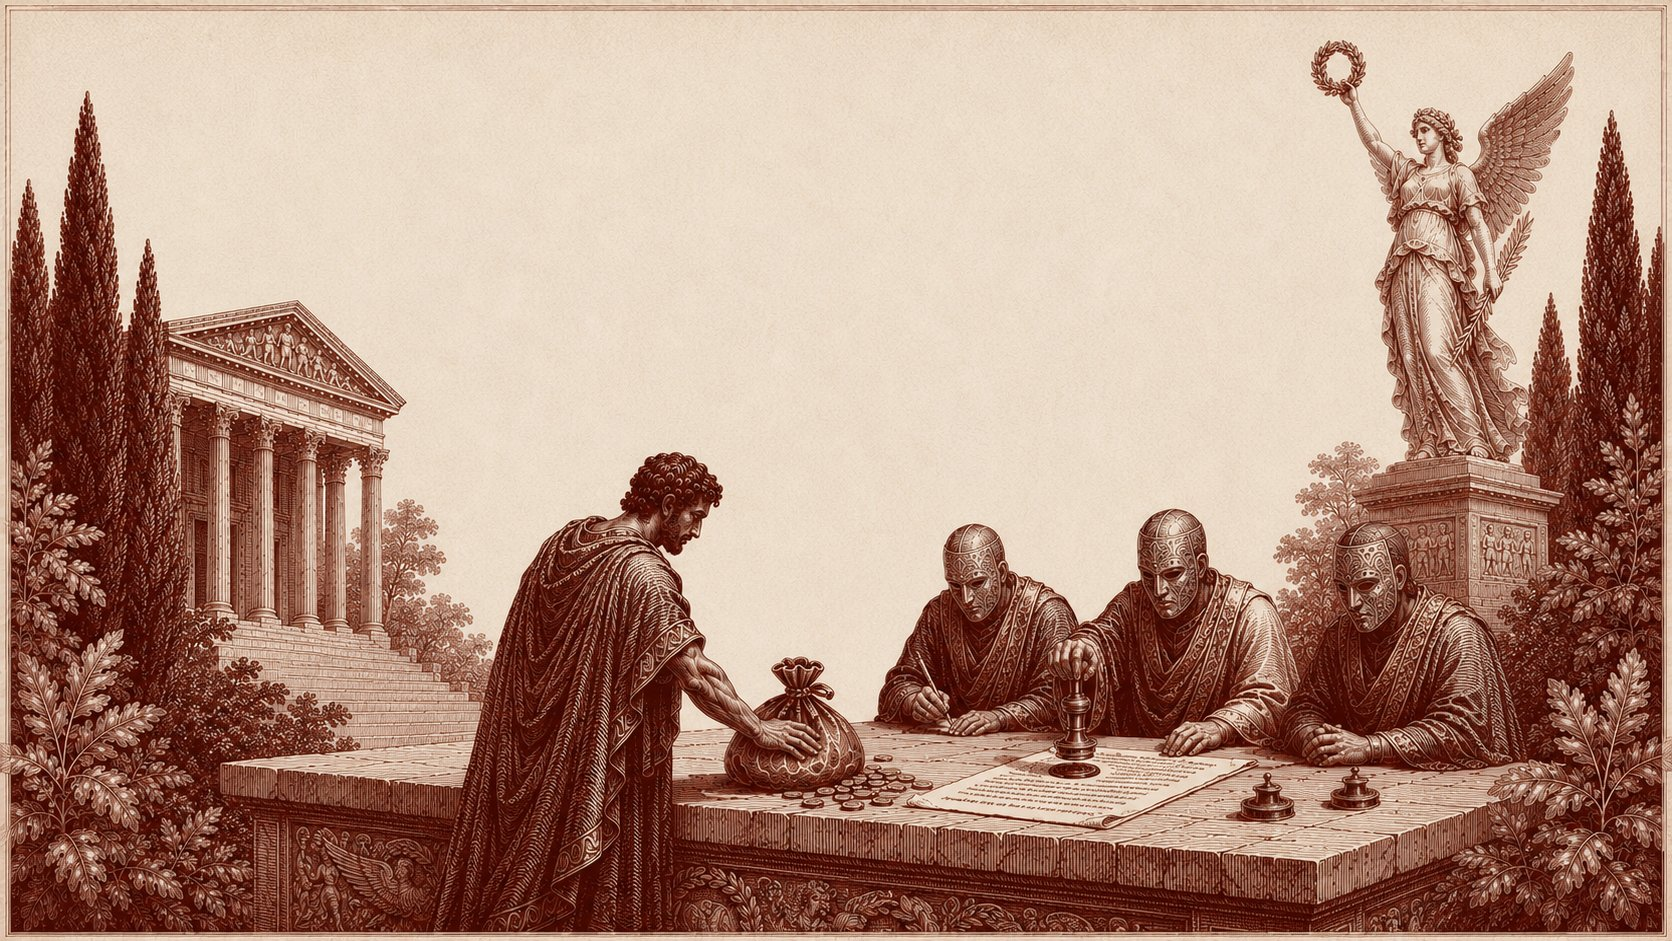
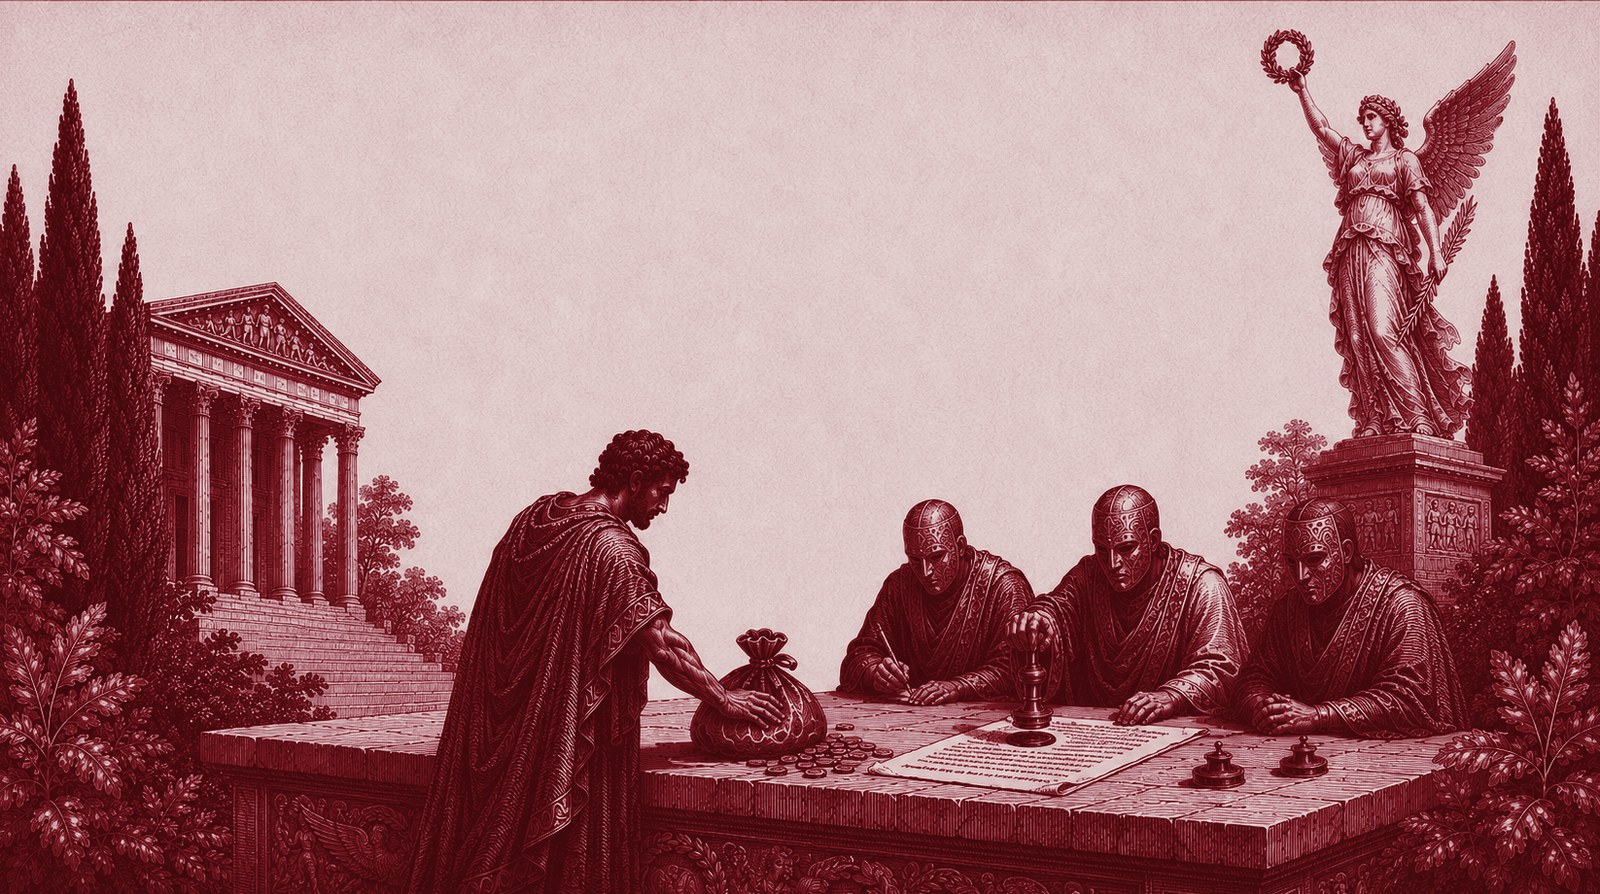
feat(landing): rebuilt plates — mobile fits one screen, desktop regraded
Desktop  collateral-plate.jpg         1600x894, 433KB  (was 1672x941, 452KB)
Mobile   collateral-plate-mobile.jpg   900x1500, 142KB  (was 864x1821, 453KB)

The mobile crop is now built from the DESKTOP artwork rather than a portrait
render. That is the actual fix: a portrait render put the scene between 28% and
100% of its height, so the scene alone was ~1365px tall on a 390 phone and no
crop could shorten it without cutting figures. The desktop scene is wide and
short, so it drops into the bottom third of a shorter canvas with the top left
clear. Sky extended upward from the plate's own tone with a feathered join.

Mobile hero on a 390 phone: 822px -> 650px. Inside one screen instead of
overflowing it. Mobile plate also drops 453KB -> 142KB, a 69% cut on the LCP
element for phones.

Applied with it: aspect-ratio 864/1821 -> 900/1500, lockup padding 100px ->
96px, mobile h1 clamp(32px,9.4vw,52px) -> clamp(38px,12vw,48px). The
max-width:420px block was already removed in 6df1b7b0.

Verified 390x844: hero 390x650, full bleed, fits one screen, lockup absolute at
96px clearing the header, headline 46.8px in three lines, 0% ink under eyebrow,
headline and both CTAs. Clear channel measured to 68% depth.
Verified 1920x1080: fills one frame, 0px top crop, 14px a side, 0% ink under
eyebrow, headline, both CTAs; wordmark 0.1%.

STILL OPEN, and now larger: the plate's paper is rgb(220,196,196), a dusty rose,
[…]

diff --git a/FRONTEND/src/components/CollateralHero.js b/FRONTEND/src/components/CollateralHero.js
@@ -36,14 +36,16 @@
  * ─────────────────────────────────────────────────────────────────────────────
  */
 
-// Desktop plate: 1672x941 JPEG, 452KB. Mobile has its own portrait crop,
-// 864x1821 JPEG at 453KB, wired in the max-width:820px block.
+// Desktop plate: 1600x894 JPEG, 433KB. Mobile: 900x1500 JPEG, 142KB.
 //
-// Both were supplied as ~3.2MB PNGs and re-encoded to JPEG q86 via Windows
-// System.Drawing — an 86% reduction. There is still no sharp or ImageMagick
-// here; System.Drawing is the encoder that does exist on this machine.
-const PLATE_W = 1672;
-const PLATE_H = 941;
+// The mobile crop is built from the DESKTOP artwork, not from a portrait
+// render. A portrait render put the scene between 28% and 100% of its height,
+// so the scene alone was ~1365px tall on a 390 phone and no crop could shorten
+// it without cutting figures. The desktop scene is wide and short, so it drops
+// into the bottom third of a shorter canvas and leaves the top clear. Hero on a
+// 390 phone goes 822px -> 650px, inside one screen instead of overflowing it.
+const PLATE_W = 1600;
+const PLATE_H = 894;
 
 function escapeHtml(value) {
     return String(value)
@@ -140,7 +142,7 @@ export function renderCollateralHero(options = {}) {
 
            The hero is exactly ONE viewport tall so the whole thing sits in a
            single frame at scroll-top, with nothing cut off the bottom. cover +
-           bottom anchor is what makes that safe: the plate is 1672x941 and the
+           bottom anchor is what makes that safe: the plate is 1600x894 and the
            frame is usually taller in ratio, so something has to give, and what
            gives is the TOP BAND OF EMPTY SKY. The temple, the figures at the
            desk and the ground line are pinned to the bottom edge and never
@@ -278,7 +280,7 @@ export function renderCollateralHero(options = {}) {
              sides, which is the "it needs to be full screen" problem from
              earlier. */
           .clt-hero{
-            aspect-ratio:864 / 1821 !important;
+            aspect-ratio:900 / 1500 !important;
             height:auto !important;
             padding:0;
             width:100vw;
@@ -287,14 +289,14 @@ export function renderCollateralHero(options = {}) {
             background-size:100% 100%;
             background-position:center top;
           }
-          .clt-lockup{position:absolute;inset:0 0 auto 0;padding:100px 22px 0}
+          .clt-lockup{position:absolute;inset:0 0 auto 0;padding:96px 22px 0}
           .clt-eyebrow{font-size:9px;gap:8px;letter-spacing:.18em}
           .clt-eyebrow::before,.clt-eyebrow::after{width:20px;height:2px}
           /* src/mobile.css:521 forces h1 to clamp(24px,7vw,36px) !important for
              every view at max-width 768px, which beats a scoped rule. The extra
              .clt and the !important below exist only to win that cascade — the
              VALUE is exactly as authored, unconverted. */
-          .clt .clt-hero h1{margin-top:16px;font-size:clamp(32px,9.4vw,52px) !important;line-height:.9;letter-spacing:-.03em}
+          .clt .clt-hero h1{margin-top:16px;font-size:clamp(38px,12vw,48px) !important;line-height:.9;letter-spacing:-.03em}
           .clt-cta{margin-top:26px;gap:18px;flex-direction:column}
           /* min-height is the 44px touch target; the padding alone gave 43px. */
           .clt-btn{padding:16px 30px;min-height:44px;font-size:11px;box-shadow:5px 5px 0 var(--ox)}
